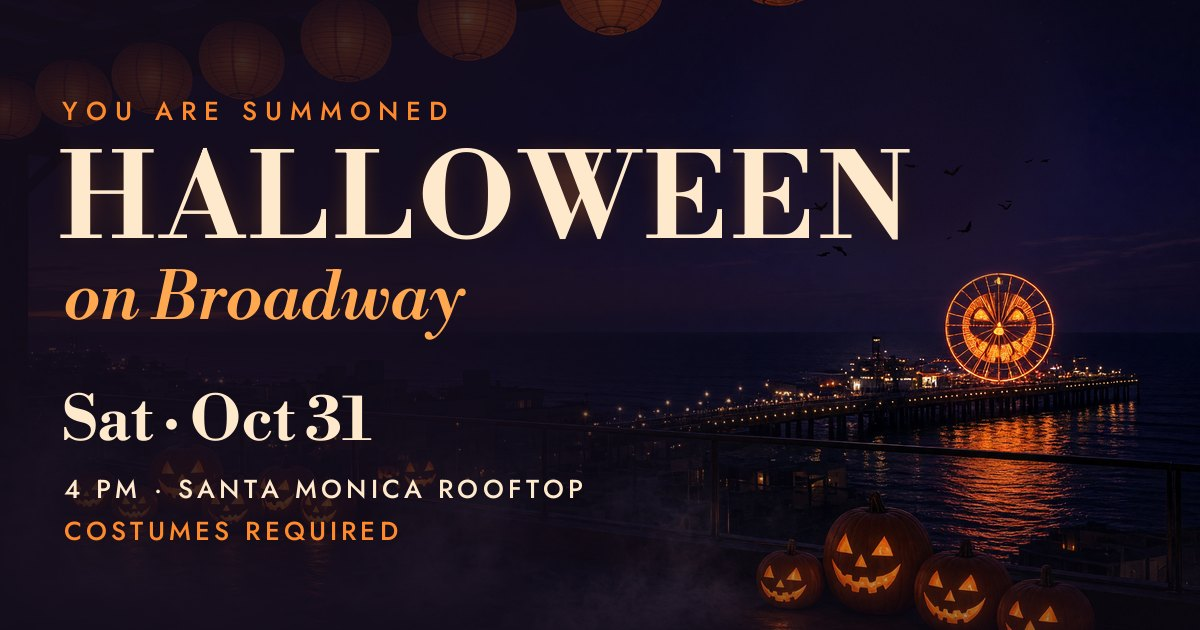
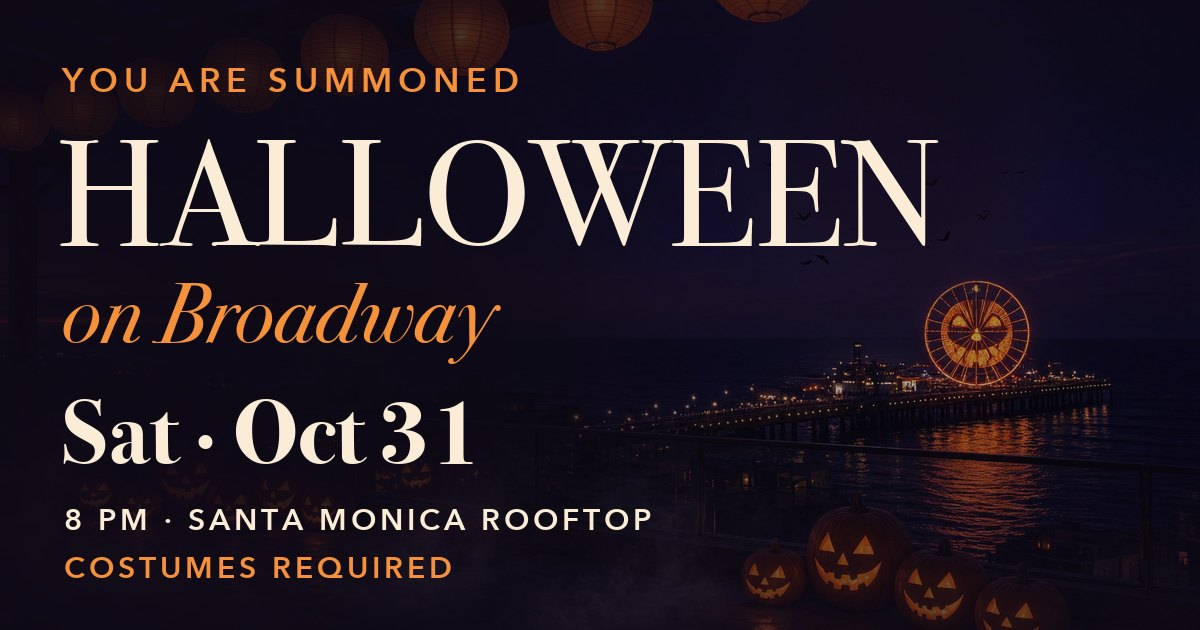
Halloween share cards: 8 PM to midnight, Giraffes + approved applicants

diff --git a/halloween/index.html b/halloween/index.html
@@ -8,7 +8,7 @@
 <meta property="og:type" content="website">
 <meta property="og:site_name" content="The Oasis">
 <meta property="og:title" content="Halloween on Broadway · Sat Oct 31">
-<meta property="og:description" content="You are summoned. A rooftop soirée in Santa Monica from 4 PM until the witching hour: dancing, drinks, the pool and an ocean view. Costumes required. Giraffes are approved automatically. Want to join? Apply for membership.">
+<meta property="og:description" content="You are summoned. A rooftop soirée in Santa Monica from 8 PM to midnight: dancing, drinks, the pool and an ocean view. Costumes required. For Grateful Giraffes and approved applicants. Want to join? Apply with your RSVP.">
 <meta property="og:url" content="https://grateful.gg/halloween/">
 <meta property="og:image" content="https://grateful.gg/halloween/cover.jpg">
 <meta property="og:image:secure_url" content="https://grateful.gg/halloween/cover.jpg">
@@ -18,7 +18,7 @@
 <meta property="og:image:alt" content="Halloween on Broadway, Saturday October 31, a Santa Monica rooftop over the pier at night">
 <meta name="twitter:card" content="summary_large_image">
 <meta name="twitter:title" content="Halloween on Broadway · Sat Oct 31">
-<meta name="twitter:description" content="You are summoned. A rooftop soirée in Santa Monica from 4 PM until the witching hour: dancing, drinks, the pool and an ocean view. Costumes required. Giraffes are approved automatically. Want to join? Apply for membership.">
+<meta name="twitter:description" content="You are summoned. A rooftop soirée in Santa Monica from 8 PM to midnight: dancing, drinks, the pool and an ocean view. Costumes required. For Grateful Giraffes and approved applicants. Want to join? Apply with your RSVP.">
 <meta name="twitter:image" content="https://grateful.gg/halloween/cover.jpg">
 
 <!-- Humans go to the real page; crawlers read the tags above first. The card
@@ -47,7 +47,7 @@
 <body>
   <main class="card">
     <img src="https://grateful.gg/halloween/cover.jpg" alt="Halloween on Broadway, Saturday October 31, a Santa Monica rooftop over the pier at night" width="1200" height="630">
-    <div class="b"><h1>Halloween on Broadway · Sat Oct 31</h1><p>You are summoned. A rooftop soirée in Santa Monica from 4 PM until the witching hour: dancing, drinks, the pool and an ocean view. Costumes required. Giraffes are approved automatically. Want to join? Apply for membership.</p>
+    <div class="b"><h1>Halloween on Broadway · Sat Oct 31</h1><p>You are summoned. A rooftop soirée in Santa Monica from 8 PM to midnight: dancing, drinks, the pool and an ocean view. Costumes required. For Grateful Giraffes and approved applicants. Want to join? Apply with your RSVP.</p>
     <a class="btn" href="https://app.grateful.gg/halloween">Open the event &rarr;</a></div>
   </main>
 </body>

diff --git a/halloween/ray/index.html b/halloween/ray/index.html
@@ -8,7 +8,7 @@
 <meta property="og:type" content="website">
 <meta property="og:site_name" content="The Oasis">
 <meta property="og:title" content="Halloween on Broadway · Sat Oct 31">
-<meta property="og:description" content="A rooftop soirée in Santa Monica from 4 PM until the witching hour: dancing, drinks, the pool and an ocean view. Costumes required. Giraffes are approved automatically. Want to join? Apply for membership.">
+<meta property="og:description" content="A rooftop soirée in Santa Monica from 8 PM to midnight: dancing, drinks, the pool and an ocean view. Costumes required. For Grateful Giraffes and approved applicants. Want to join? Apply with your RSVP.">
 <meta property="og:url" content="https://grateful.gg/halloween/ray/">
 <meta property="og:image" content="https://grateful.gg/halloween/ray/cover.jpg">
 <meta property="og:image:secure_url" content="https://grateful.gg/halloween/ray/cover.jpg">
@@ -18,7 +18,7 @@
 <meta property="og:image:alt" content="Halloween on Broadway, Sat Oct 31, a Santa Monica rooftop. Ray invites you.">
 <meta name="twitter:card" content="summary_large_image">
 <meta name="twitter:title" content="Halloween on Broadway · Sat Oct 31">
-<meta name="twitter:description" content="A rooftop soirée in Santa Monica from 4 PM until the witching hour: dancing, drinks, the pool and an ocean view. Costumes required. Giraffes are approved automatically. Want to join? Apply for membership.">
+<meta name="twitter:description" content="A rooftop soirée in Santa Monica from 8 PM to midnight: dancing, drinks, the pool and an ocean view. Costumes required. For Grateful Giraffes and approved applicants. Want to join? Apply with your RSVP.">
 <meta name="twitter:image" content="https://grateful.gg/halloween/ray/cover.jpg">
 
 <!-- Humans go to the real page; crawlers read the tags above first. The card
@@ -47,7 +47,7 @@
 <body>
   <main class="card">
     <img src="https://grateful.gg/halloween/ray/cover.jpg" alt="Halloween on Broadway, Sat Oct 31, a Santa Monica rooftop. Ray invites you." width="1200" height="630">
-    <div class="b"><h1>Halloween on Broadway · Sat Oct 31</h1><p>A rooftop soirée in Santa Monica from 4 PM until the witching hour: dancing, drinks, the pool and an ocean view. Costumes required. Giraffes are approved automatically. Want to join? Apply for membership.</p>
+    <div class="b"><h1>Halloween on Broadway · Sat Oct 31</h1><p>A rooftop soirée in Santa Monica from 8 PM to midnight: dancing, drinks, the pool and an ocean view. Costumes required. For Grateful Giraffes and approved applicants. Want to join? Apply with your RSVP.</p>
     <a class="btn" href="https://app.grateful.gg/halloween">Open the event &rarr;</a></div>
   </main>
 </body>
